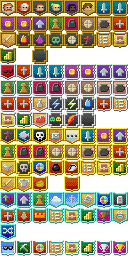
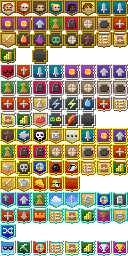
典狱长相关徽章

Changed region(s): [[0.375, 0.6875, 0.5, 0.75], [0.2812, 0.6875, 0.3438, 0.75]]

diff --git a/core/src/main/java/com/shatteredpixel/shatteredpixeldungeon/Badges.java b/core/src/main/java/com/shatteredpixel/shatteredpixeldungeon/Badges.java
@@ -119,6 +119,7 @@ public class Badges {
 		ITEMS_CRAFTED_2             ( 46 ),
 		ITEMS_CRAFTED_3             ( 47 ),
 		BOSS_SLAIN_2                ( 48 ),
+		SECOND_BOSS_SLAIN_2         ( 48 ),
 		BOSS_SLAIN_3                ( 49 ),
 		ALL_POTIONS_IDENTIFIED      , //still exists internally for pre-2.5 saves
 		ALL_SCROLLS_IDENTIFIED      , //still exists internally for pre-2.5 saves
@@ -171,6 +172,7 @@ public class Badges {
 		BOSS_CHALLENGE_1            ( 83 ),
 		SECOND_BOSS_CHALLENGE_1     ( 91 ),
 		BOSS_CHALLENGE_2            ( 84 ),
+		SECOND_BOSS_CHALLENGE_2     ( 92 ),
 		RESEARCHER_3                ( 85, BadgeType.JOURNAL ),
 		GAMES_PLAYED_3              ( 86, BadgeType.GLOBAL ),
 		HIGH_SCORE_3                ( 87 ),
@@ -973,6 +975,7 @@ public class Badges {
 				badge = Badge.SECOND_BOSS_SLAIN_1;
 				break;
 			case 10:
+				badge = Badge.SECOND_BOSS_SLAIN_2;
 				break;
 			case 15:
 				break;
@@ -1048,6 +1051,7 @@ public class Badges {
 				badge = Badge.SECOND_BOSS_CHALLENGE_1;
 				break;
 			case 10:
+				badge = Badge.SECOND_BOSS_CHALLENGE_2;
 				break;
 			case 15:
 				break;
@@ -1371,6 +1375,7 @@ public class Badges {
 			{Badge.FOOD_EATEN_1, Badge.FOOD_EATEN_2, Badge.FOOD_EATEN_3, Badge.FOOD_EATEN_4, Badge.FOOD_EATEN_5},
 			{Badge.ITEMS_CRAFTED_1, Badge.ITEMS_CRAFTED_2, Badge.ITEMS_CRAFTED_3, Badge.ITEMS_CRAFTED_4, Badge.ITEMS_CRAFTED_5},
 			{Badge.BOSS_SLAIN_1, Badge.BOSS_SLAIN_2, Badge.BOSS_SLAIN_3, Badge.BOSS_SLAIN_4},
+			{Badge.SECOND_BOSS_SLAIN_1, Badge.SECOND_BOSS_SLAIN_2},
 			{Badge.RESEARCHER_1, Badge.RESEARCHER_2, Badge.RESEARCHER_3, Badge.RESEARCHER_4, Badge.RESEARCHER_5},
 			{Badge.HIGH_SCORE_1, Badge.HIGH_SCORE_2, Badge.HIGH_SCORE_3, Badge.HIGH_SCORE_4, Badge.HIGH_SCORE_5},
 			{Badge.GAMES_PLAYED_1, Badge.GAMES_PLAYED_2, Badge.GAMES_PLAYED_3, Badge.GAMES_PLAYED_4, Badge.GAMES_PLAYED_5},
@@ -1384,6 +1389,7 @@ public class Badges {
 			{Badge.BOSS_SLAIN_1, Badge.BOSS_CHALLENGE_1},
 			{Badge.SECOND_BOSS_SLAIN_1, Badge.SECOND_BOSS_CHALLENGE_1},
 			{Badge.BOSS_SLAIN_2, Badge.BOSS_CHALLENGE_2},
+			{Badge.SECOND_BOSS_SLAIN_2, Badge.SECOND_BOSS_CHALLENGE_2},
 			{Badge.BOSS_SLAIN_3, Badge.BOSS_CHALLENGE_3},
 			{Badge.BOSS_SLAIN_4, Badge.BOSS_CHALLENGE_4},
 			{Badge.VICTORY,      Badge.BOSS_CHALLENGE_5},
